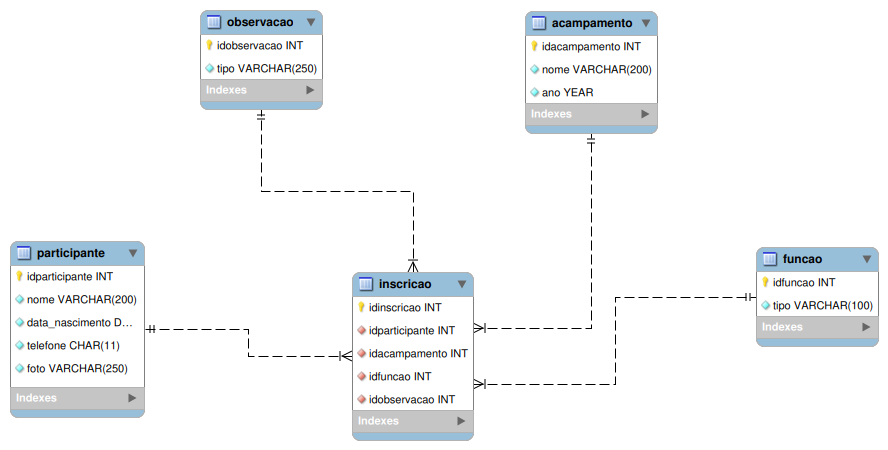
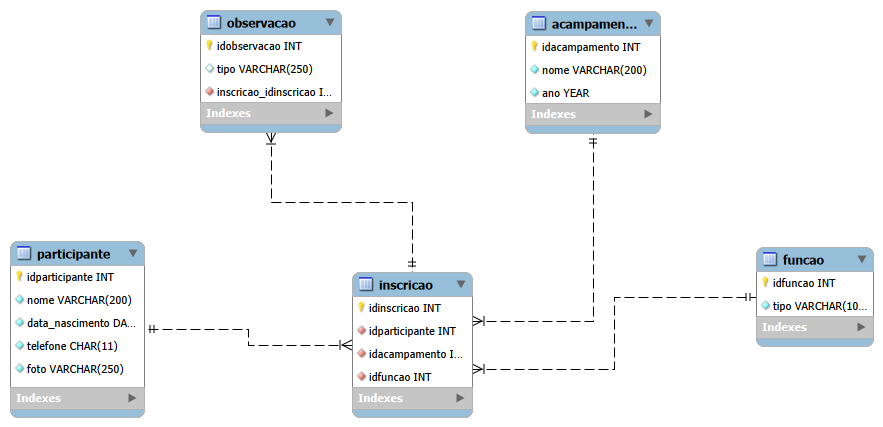
alterei o banco

diff --git a/codigo/cad_inscricao.php b/codigo/cad_inscricao.php
@@ -73,11 +73,11 @@
         </select> <br><br>
 
         Observação: <br>
-        <input type="checkbox" name="obersavacao[]" value="Alergia a glutem"> alergia a glutem <br><br>
-        <input type="checkbox" name="obersavacao[]" value="intolerante a lactose"> intolerante a lactose <br><br>
-        <input type="checkbox" name="obersavacao[]" value="remedio de uso continuo"> remedio de uso continuo <br><br>
-        <input type="checkbox" name="obersavacao[]" value="seletividade alimentar"> seletividade alimentar <br><br>
-        <input type="checkbox" name="obersavacao[]" value="Nenhuma"> Nenhuma <br>
+        <input type="checkbox" name="observacao[]" value="Alergia a glutem"> alergia a glutem <br><br>
+        <input type="checkbox" name="observacao[]" value="intolerante a lactose"> intolerante a lactose <br><br>
+        <input type="checkbox" name="observacao[]" value="remedio de uso continuo"> remedio de uso continuo <br><br>
+        <input type="checkbox" name="observacao[]" value="seletividade alimentar"> seletividade alimentar <br><br>
+        <input type="checkbox" name="observacao[]" value="Nenhuma"> Nenhuma <br>
 
         <input type="submit" value="Salvar">
 

diff --git a/codigo/salvar_inscricao.php b/codigo/salvar_inscricao.php
@@ -20,8 +20,8 @@ $observacao = $_POST['observacao'];
 require_once "conexao.php";
 
 foreach ($observacao as $a) {
-    $sql = "INSERT INTO inscricao_observacao (idinscricao, idobservacao) VALUES (?, ?)";
+    $sql = "INSERT INTO observacao (inscricao_idinscricao, tipo, idobservacao) VALUES (?, ?, ?);";
     $comando = mysqli_prepare($conexao, $sql);
-    mysqli_stmt_bind_param($comando, "ii", $a, $idobservacao);
+    mysqli_stmt_bind_param($comando, "isi", $idinscricao , $tipo, $a);
     mysqli_stmt_execute($comando);
 }
